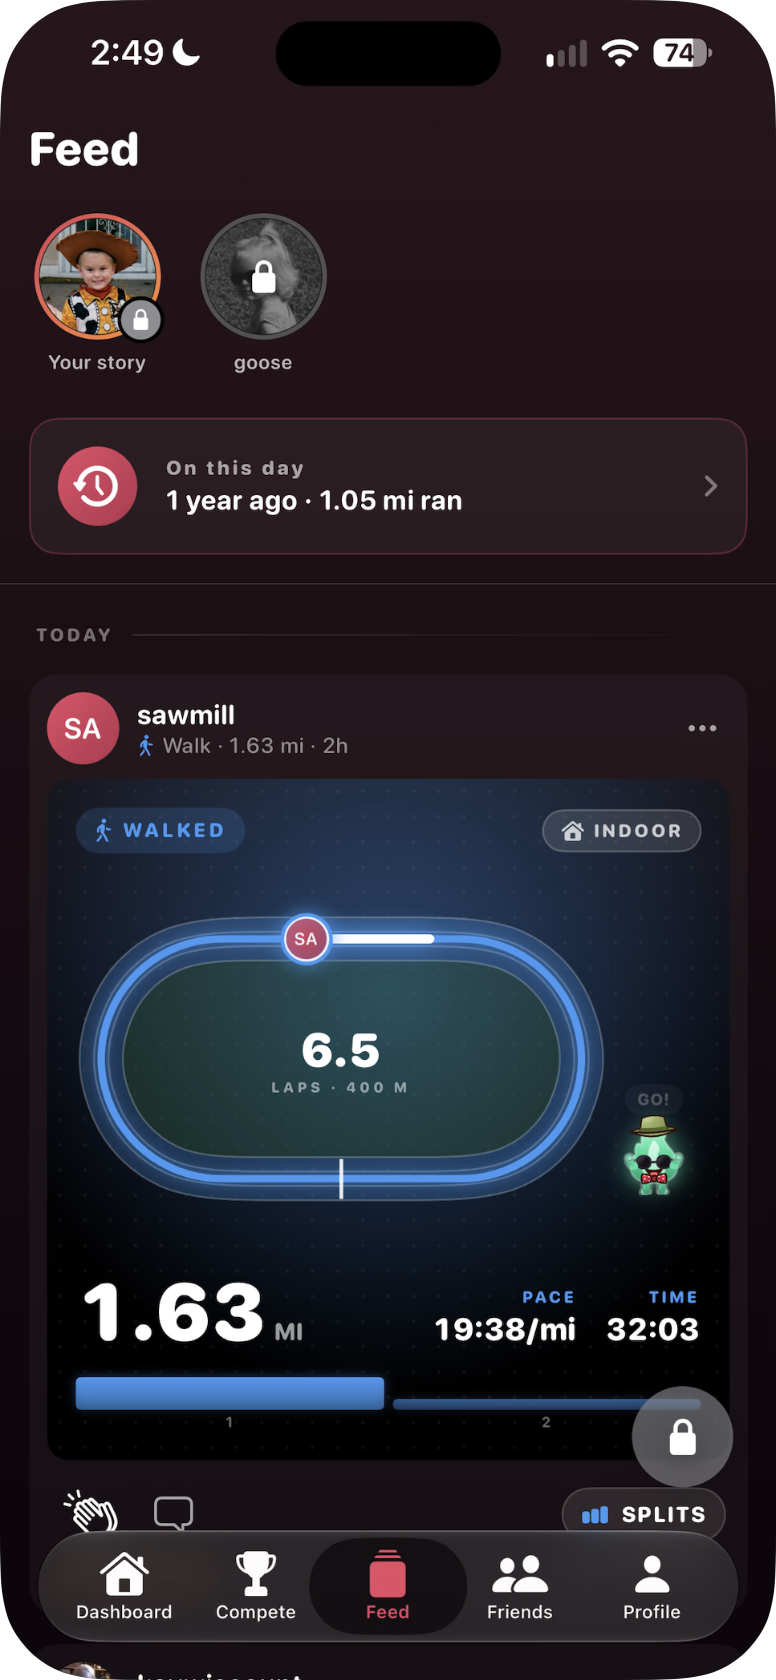
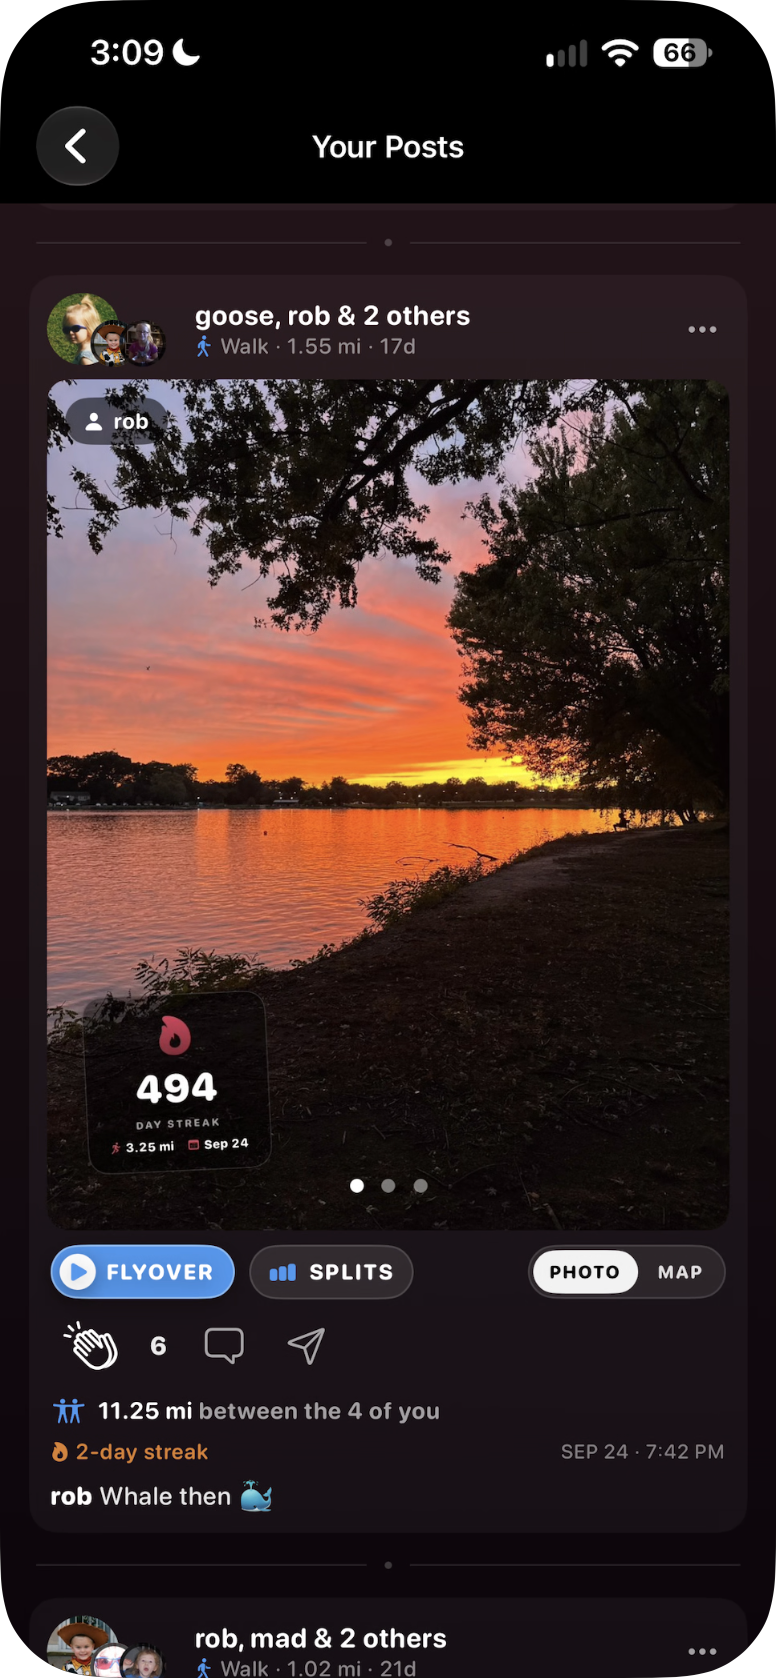
Website: What's New becomes a carousel, with new real captures
The showcase is now a snap carousel on every screen size: the middle
phone is full size and lit, its neighbours shrink and dim, and the track
pads itself by half a viewport so the first, last and only slide sit dead
centre. Arrows on wider screens, dots everywhere, keyboard arrows too. The
phone gets a proper frame (black bezel, titanium edge, side buttons) and a
glow in the feature's own colour. RELEASE_SHOWCASE no longer caps at three.

New captures from the app:
- 1.2.07: share studio
- 1.2.05: a four-person buddy walk with everyone's route, and a Flyover
  mid-flight
- 1.2.03: a crew post with comments (Comments & collabs)
- 1.2.0: a real photo post replaces the stories rail
- 1.0: the 500-day streak celebration and the medal shelf, alongside
  competitions

Also: profile avatars fall back to initials if an image errors, and the
feed photo no longer asks the optimiser for a 3840px image.

diff --git a/website/components/showcase-carousel.tsx b/website/components/showcase-carousel.tsx
@@ -1,0 +1,184 @@
+"use client";
+
+import Image from "next/image";
+import { useCallback, useEffect, useRef, useState } from "react";
+import { ChevronLeft, ChevronRight } from "lucide-react";
+
+export type ShowcaseSlide = {
+  title: string;
+  caption: string;
+  blurb: string;
+  screenshot: string;
+  /** The feature's colour from RELEASES — tints the glow behind the phone. */
+  color: string;
+};
+
+// Captures are iPhone Mirroring window grabs, cropped to the bare screen.
+const SHOT_W = 776;
+const SHOT_H = 1680;
+
+/**
+ * The release's headline screenshots as a snap carousel, on every screen size:
+ * the slide in the middle is full size and lit, its neighbours shrink and dim,
+ * and the track pads itself by half a viewport so the first and last slide can
+ * sit dead centre too — which is also what centres a release with ONE shot.
+ * Arrows on wider screens, dots everywhere, swipe/trackpad/keyboard all move it.
+ */
+export function ShowcaseCarousel({ slides }: { slides: ShowcaseSlide[] }) {
+  const trackRef = useRef<HTMLDivElement>(null);
+  const [active, setActive] = useState(0);
+
+  // The active slide is whichever centre is nearest the track's centre.
+  const measure = useCallback(() => {
+    const track = trackRef.current;
+    if (!track) return;
+    const mid = track.scrollLeft + track.clientWidth / 2;
+    let best = 0;
+    let bestDist = Infinity;
+    Array.from(track.children).forEach((child, i) => {
+      const el = child as HTMLElement;
+      const d = Math.abs(el.offsetLeft + el.offsetWidth / 2 - mid);
+      if (d < bestDist) {
+        bestDist = d;
+        best = i;
+      }
+    });
+    setActive(best);
+  }, []);
+
+  useEffect(() => {
+    const track = trackRef.current;
+    if (!track) return;
+    let frame = 0;
+    const onScroll = () => {
+      cancelAnimationFrame(frame);
+      frame = requestAnimationFrame(measure);
+    };
+    track.addEventListener("scroll", onScroll, { passive: true });
+    window.addEventListener("resize", onScroll);
+    measure();
+    return () => {
+      cancelAnimationFrame(frame);
+      track.removeEventListener("scroll", onScroll);
+      window.removeEventListener("resize", onScroll);
+    };
+  }, [measure]);
+
+  const go = useCallback((i: number) => {
+    const track = trackRef.current;
+    if (!track) return;
+    const clamped = Math.max(0, Math.min(slides.length - 1, i));
+    const el = track.children[clamped] as HTMLElement | undefined;
+    if (!el) return;
+    track.scrollTo({
+      left: el.offsetLeft + el.offsetWidth / 2 - track.clientWidth / 2,
+      behavior: "smooth",
+    });
+  }, [slides.length]);
+
+  const many = slides.length > 1;
+
+  return (
+    <div
+      className="relative -mx-6 sm:mx-0"
+      role="region"
+      aria-roledescription="carousel"
+      aria-label="Feature screenshots"
+      onKeyDown={(e) => {
+        if (e.key === "ArrowRight") { e.preventDefault(); go(active + 1); }
+        if (e.key === "ArrowLeft") { e.preventDefault(); go(active - 1); }
+      }}
+    >
+      <div
+        ref={trackRef}
+        className="no-scrollbar flex snap-x snap-mandatory gap-4 overflow-x-auto pt-6 pb-4 sm:gap-8"
+        style={{ paddingInline: "calc(50% - var(--slide-w) / 2)", ["--slide-w" as string]: "min(260px, 68vw)" }}
+      >
+        {slides.map((slide, i) => {
+          const isActive = i === active;
+          return (
+            <figure
+              key={slide.title}
+              className="flex w-[var(--slide-w)] shrink-0 snap-center flex-col items-center text-center"
+              aria-roledescription="slide"
+              aria-label={`${i + 1} of ${slides.length}: ${slide.caption}`}
+            >
+              <button
+                type="button"
+                tabIndex={isActive ? -1 : 0}
+                onClick={() => !isActive && go(i)}
+                aria-label={isActive ? undefined : `Show ${slide.caption}`}
+                className={`relative block w-full origin-center transition-[transform,opacity,filter] duration-500 ease-out motion-reduce:transition-none ${
+                  isActive ? "scale-100 opacity-100" : "scale-[0.86] cursor-pointer opacity-45 saturate-[0.6]"
+                }`}
+              >
+                {/* Feature-coloured glow, only behind the lit phone. */}
+                <span
+                  aria-hidden
+                  className={`pointer-events-none absolute inset-x-[-18%] top-[8%] bottom-[8%] rounded-full blur-3xl transition-opacity duration-500 ${isActive ? "opacity-100" : "opacity-0"}`}
+                  style={{ background: `radial-gradient(closest-side, ${slide.color}55, transparent)` }}
+                />
+                <span className="iphone-frame relative block">
+                  <Image
+                    src={slide.screenshot}
+                    alt={`${slide.caption} in the Mile A Day app`}
+                    width={SHOT_W}
+                    height={SHOT_H}
+                    sizes="(max-width: 640px) 68vw, 260px"
+                    className="block h-auto w-full"
+                  />
+                </span>
+              </button>
+              <figcaption
+                className={`mt-6 transition-opacity duration-500 ${isActive ? "opacity-100" : "opacity-0"}`}
+                aria-hidden={!isActive}
+              >
+                <h3 className="font-heading text-[24px] uppercase tracking-[1px] text-[#f5f5f5]">
+                  {slide.caption}
+                </h3>
+                <p className="mx-auto mt-1.5 max-w-[17rem] text-sm leading-relaxed text-[#a0a0a0]">
+                  {slide.blurb}
+                </p>
+              </figcaption>
+            </figure>
+          );
+        })}
+      </div>
+
+      {many && (
+        <>
+          <button
+            type="button"
+            onClick={() => go(active - 1)}
+            disabled={active === 0}
+            aria-label="Previous screenshot"
+            className="absolute left-2 top-[calc(50%-48px)] hidden h-11 w-11 -translate-y-1/2 items-center justify-center rounded-full border border-white/10 bg-black/60 text-white backdrop-blur transition hover:bg-black/80 disabled:pointer-events-none disabled:opacity-0 sm:flex"
+          >
+            <ChevronLeft className="h-5 w-5" />
+          </button>
+          <button
+            type="button"
+            onClick={() => go(active + 1)}
+            disabled={active === slides.length - 1}
+            aria-label="Next screenshot"
+            className="absolute right-2 top-[calc(50%-48px)] hidden h-11 w-11 -translate-y-1/2 items-center justify-center rounded-full border border-white/10 bg-black/60 text-white backdrop-blur transition hover:bg-black/80 disabled:pointer-events-none disabled:opacity-0 sm:flex"
+          >
+            <ChevronRight className="h-5 w-5" />
+          </button>
+          <div className="mt-2 flex justify-center gap-2">
+            {slides.map((slide, i) => (
+              <button
+                key={slide.title}
+                type="button"
+                onClick={() => go(i)}
+                aria-label={`Show ${slide.caption}`}
+                aria-current={i === active}
+                className={`h-2 rounded-full transition-all duration-300 ${i === active ? "w-6 bg-[#c72554]" : "w-2 bg-white/25 hover:bg-white/40"}`}
+              />
+            ))}
+          </div>
+        </>
+      )}
+    </div>
+  );
+}

diff --git a/website/lib/releases.ts b/website/lib/releases.ts
@@ -467,26 +467,29 @@ export type ReleaseShot = {
 };
 
 // Headliners per release, shown on real screenshots in the home page's
-// What's New section (whose dropdown walks back through RELEASES). Up to
-// three per release; capture them from the app on that version's screens.
+// What's New carousel (whose dropdown walks back through RELEASES). Any
+// number per release — the carousel centres one and scrolls the rest; capture
+// them from the app on that version's screens.
 export const RELEASE_SHOWCASE: Record<string, ReleaseShot[]> = {
   "1.2.07": [
     { title: "Flamey's Closet", caption: "Flamey's Closet", blurb: "Every medal unlocks something for Flamey to wear. Name him, dress him, save the outfits you love.", screenshot: "/images/whats-new/1.2.07/flameys-closet.png" },
+    { title: "A new way to share", caption: "Share studio", blurb: "Swipe through finished cards for your walk, your streak or your Flamey, and send one straight to Instagram Stories.", screenshot: "/images/whats-new/1.2.07/a-new-way-to-share.png" },
     { title: "Your Flamey, on your walks", caption: "Flamey on the feed", blurb: "Friends on Fun bring their Flamey along, cheering them over the line on every walk.", screenshot: "/images/whats-new/1.2.07/your-flamey-on-your-walks.png" },
     { title: "Weekly Recap", caption: "Weekly Recap", blurb: "Every Saturday evening: your miles, your best day, and how your friends did.", screenshot: "/images/whats-new/1.2.07/weekly-recap.png" },
   ],
   "1.2.05": [
-    { title: "Buddy Walks", caption: "Buddy Walks", blurb: "Walk together from anywhere, counting down to the same second.", screenshot: null },
-    { title: "Route Art", caption: "Route Art", blurb: "Your route, drawn and colored by the time of day you went out.", screenshot: null },
+    { title: "Buddy Walks", caption: "Buddy Walks", blurb: "Walk together from anywhere, then see everyone's route on one map.", screenshot: "/images/whats-new/1.2.05/buddy-walks.png" },
+    { title: "Fly your route back", caption: "Flyover", blurb: "Watch the whole walk from above: every line, every mile, and who finished first.", screenshot: "/images/whats-new/1.2.05/fly-your-route-back.png" },
     { title: "Compete, rebuilt", caption: "Compete, rebuilt", blurb: "What's live, what you've won, and how every challenge was completed.", screenshot: "/images/whats-new/1.2.05/compete-rebuilt.png" },
+    { title: "Route Art", caption: "Route Art", blurb: "Your route, drawn and colored by the time of day you went out.", screenshot: null },
   ],
   "1.2.03": [
     { title: "A brand-new Dashboard", caption: "A new Dashboard", blurb: "Your mile, your streak and your tokens in one view.", screenshot: "/images/whats-new/1.2.03/a-brand-new-dashboard.png" },
+    { title: "Comments, mentions & collabs", caption: "Comments & collabs", blurb: "Post a walk together, tag the crew, and talk about it underneath.", screenshot: "/images/whats-new/1.2.03/comments-and-collabs.png" },
     { title: "Streak Tokens", caption: "Streak Tokens", blurb: "Backup for the days life gets in the way.", screenshot: "/images/whats-new/1.2.03/streak-tokens.png" },
-    { title: "Comments, mentions & collabs", caption: "Comments & collabs", blurb: "Talk under a walk, tag a friend, post it together.", screenshot: null },
   ],
   "1.2.0": [
-    { title: "Feed & Stories", caption: "Feed & Stories", blurb: "See every friend's mile as it happens.", screenshot: "/images/whats-new/1.2.0/feed-and-stories.png" },
+    { title: "Feed & Stories", caption: "Feed & Stories", blurb: "Post the photo from your mile with your stats on it, and let the hypes roll in.", screenshot: "/images/whats-new/1.2.0/feed-and-stories.png" },
     { title: "3D Medals", caption: "3D Medals", blurb: "Medals you can spin in your hand.", screenshot: "/images/whats-new/1.2.0/3d-medals.png" },
     { title: "Head-to-Head", caption: "Head-to-Head", blurb: "Take on one friend, mile for mile.", screenshot: null },
   ],
@@ -495,7 +498,8 @@ export const RELEASE_SHOWCASE: Record<string, ReleaseShot[]> = {
     { title: "Friends, organized", caption: "Friends, organized", blurb: "Requests, suggestions and friends in one place.", screenshot: "/images/whats-new/1.1.0/friends-organized.png" },
   ],
   "1.0": [
-    { title: "Daily mile streaks", caption: "Daily mile streaks", blurb: "One mile a day. Watch the streak grow.", screenshot: null },
-    { title: "Competitions", caption: "Competitions", blurb: "Race your friends in streaks, apex and more.", screenshot: "/images/whats-new/1.0/competitions.png" },
+    { title: "Daily mile streaks", caption: "Daily mile streaks", blurb: "One mile a day. Hit 500 and the whole screen celebrates.", screenshot: "/images/whats-new/1.0/daily-mile-streaks.png" },
+    { title: "Medals", caption: "Medals", blurb: "Milestones for your streak, your miles, and your fastest mile.", screenshot: "/images/whats-new/1.0/medals.png" },
+    { title: "Competitions", caption: "Competitions", blurb: "Start one with friends and fight for the top of the leaderboard.", screenshot: "/images/whats-new/1.0/competitions.png" },
   ],
 };

diff --git a/website/components/whats-new-section.tsx b/website/components/whats-new-section.tsx
@@ -1,7 +1,7 @@
 "use client";
 
 import Link from "next/link";
-import Image from "next/image";
+import { ShowcaseCarousel, type ShowcaseSlide } from "@/components/showcase-carousel";
 import { useState } from "react";
 import { ArrowRight, ChevronDown } from "lucide-react";
 import { RELEASES, CURRENT_RELEASE, RELEASE_SHOWCASE } from "@/lib/releases";
@@ -21,6 +21,11 @@ export function WhatsNewSection() {
   const shots = (RELEASE_SHOWCASE[release.version] ?? []).filter((s) => s.screenshot);
   const shown = new Set(shots.map((s) => s.title));
   const rest = release.features.filter((f) => !shown.has(f.title));
+  const slides: ShowcaseSlide[] = shots.map((s) => ({
+    ...s,
+    screenshot: s.screenshot!,
+    color: release.features.find((f) => f.title === s.title)?.color ?? "#c72554",
+  }));
 
   return (
     <section
@@ -62,24 +67,9 @@ export function WhatsNewSection() {
           </p>
         </div>
 
-        {shots.length > 0 && (
-          <div key={release.version} className="mb-14 grid gap-x-8 gap-y-12 sm:grid-cols-2 md:grid-cols-3">
-            {shots.map((shot) => (
-              <div key={shot.title} className={`animate-in fade-in duration-500 flex flex-col items-center text-center`}>
-                <div className="phone-mockup w-full max-w-[280px] overflow-hidden p-2.5">
-                  <Image
-                    src={shot.screenshot!}
-                    alt={`${shot.caption} in the Mile A Day app`}
-                    width={776}
-                    height={1680}
-                    sizes="280px"
-                    className="w-full rounded-[30px]"
-                  />
-                </div>
-                <h3 className="font-heading mt-6 text-[24px] uppercase tracking-[1px] text-[#f5f5f5]">{shot.caption}</h3>
-                <p className="mt-1.5 max-w-xs text-sm leading-relaxed text-[#a0a0a0]">{shot.blurb}</p>
-              </div>
-            ))}
+        {slides.length > 0 && (
+          <div key={release.version} className="animate-in fade-in mb-14 duration-500">
+            <ShowcaseCarousel slides={slides} />
           </div>
         )}
 

diff --git a/website/app/globals.css b/website/app/globals.css
@@ -138,6 +138,38 @@
     inset 0 1px 0 0 rgba(255, 255, 255, 0.05);
 }
 
+/* A real-looking iPhone around a bare-screen capture: black bezel, a thin
+   titanium edge, side buttons. Radii are percentages of the frame so it
+   matches the capture's own rounded corners at any width (the screen is
+   ~2.16× taller than wide, so the vertical radius is the horizontal ÷ 2.16). */
+.iphone-frame {
+  padding: 3.2%;
+  background: #050505;
+  border-radius: 17% / 7.9%;
+  box-shadow:
+    0 0 0 1.5px #4a4a50,
+    0 0 0 3.5px #18181b,
+    0 0 0 4.5px rgba(255, 255, 255, 0.08),
+    inset 0 0 0 1px rgba(255, 255, 255, 0.05),
+    0 40px 80px -24px rgba(0, 0, 0, 0.85);
+}
+.iphone-frame img {
+  border-radius: 14% / 6.5%;
+}
+.iphone-frame::before,
+.iphone-frame::after {
+  content: '';
+  position: absolute;
+  width: 3px;
+  background: linear-gradient(180deg, #3d3d42, #26262a);
+  border-radius: 2px;
+}
+.iphone-frame::before { left: -6.5px; top: 17%; height: 15%; background: linear-gradient(180deg, #3d3d42 0 42%, transparent 42% 58%, #3d3d42 58%); }
+.iphone-frame::after { right: -6.5px; top: 25%; height: 11%; }
+
+.no-scrollbar { scrollbar-width: none; }
+.no-scrollbar::-webkit-scrollbar { display: none; }
+
 /* Mobile Safari performance: eliminate GPU-heavy effects */
 @media (max-width: 768px) {
   .glass-card {

diff --git a/website/components/profile-avatar.tsx b/website/components/profile-avatar.tsx
@@ -49,7 +49,7 @@ export function ProfileAvatar({
       style={{ width: size, height: size, ...style }}
     >
       {src ? (
-        <Image src={src} alt={initials} fill className="object-cover" sizes={`${size}px`} />
+        <Image src={src} alt={initials} fill className="object-cover" sizes={`${size}px`} onError={() => setSrc(null)} />
       ) : (
         <span
           className="flex h-full w-full items-center justify-center font-bold text-white/60"

diff --git a/website/components/feed-section.tsx b/website/components/feed-section.tsx
@@ -193,7 +193,7 @@ function FeedPostCard() {
           height={1928}
           priority={false}
           className="h-full w-full object-cover object-[center_42%]"
-          sizes="(min-width: 1024px) 420px, 90vw"
+          sizes="(min-width: 640px) 420px, 90vw"
         />
 
         {/* Clap burst — hero clap + radiating mini claps (HypeBurstView) */}
